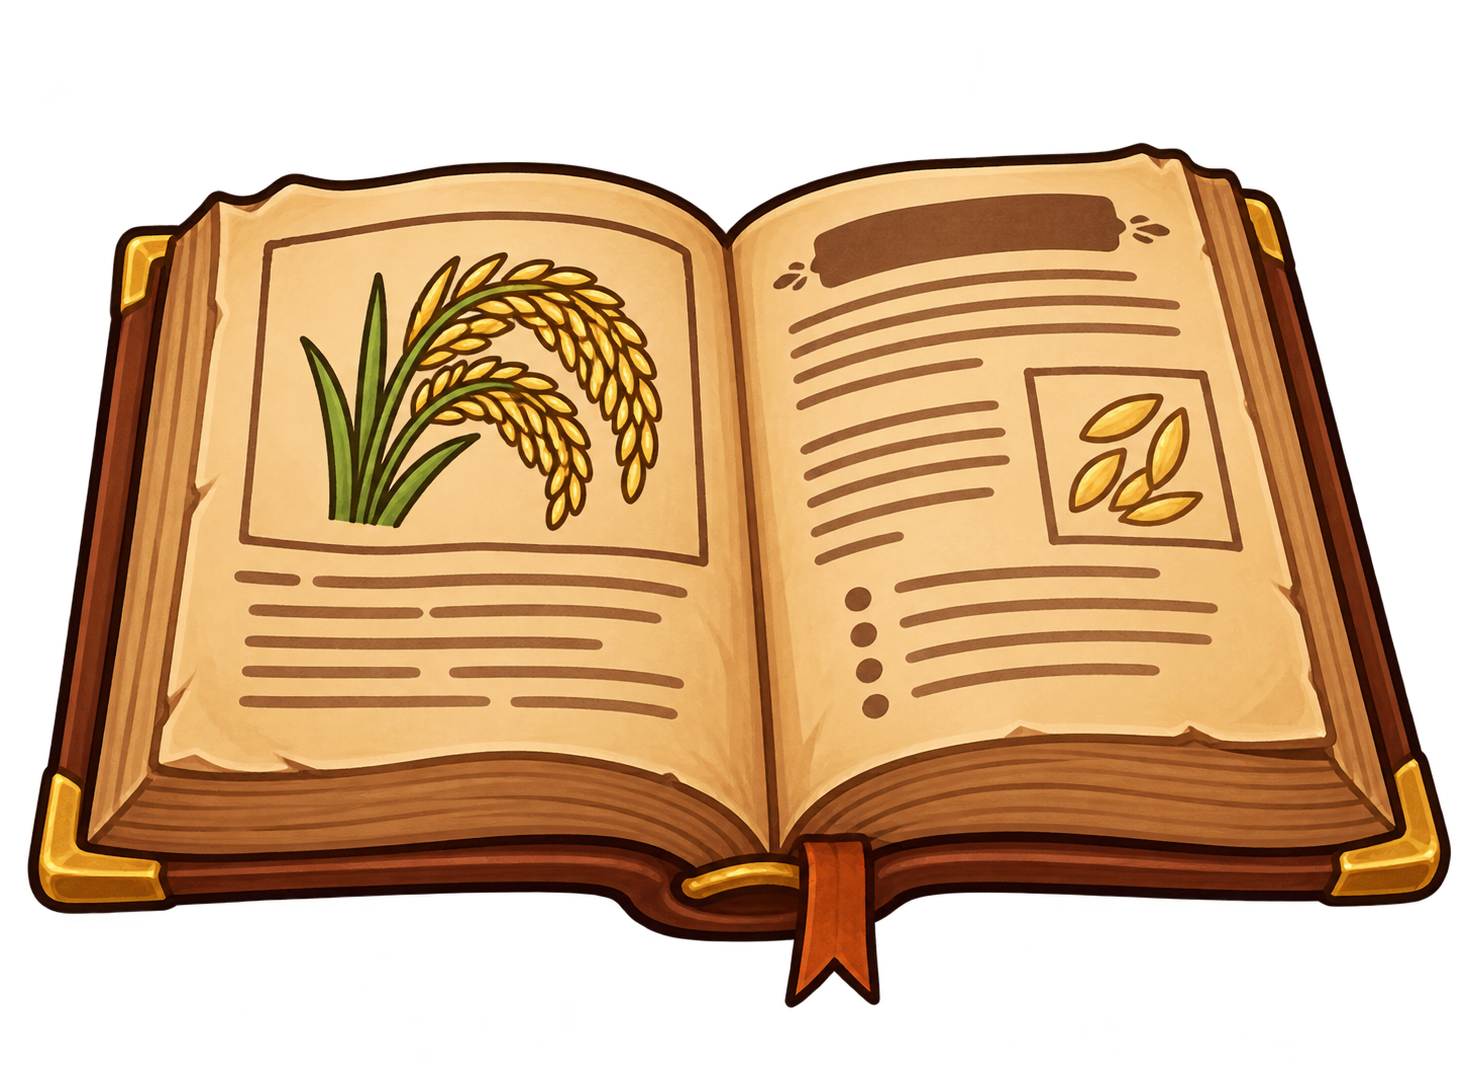
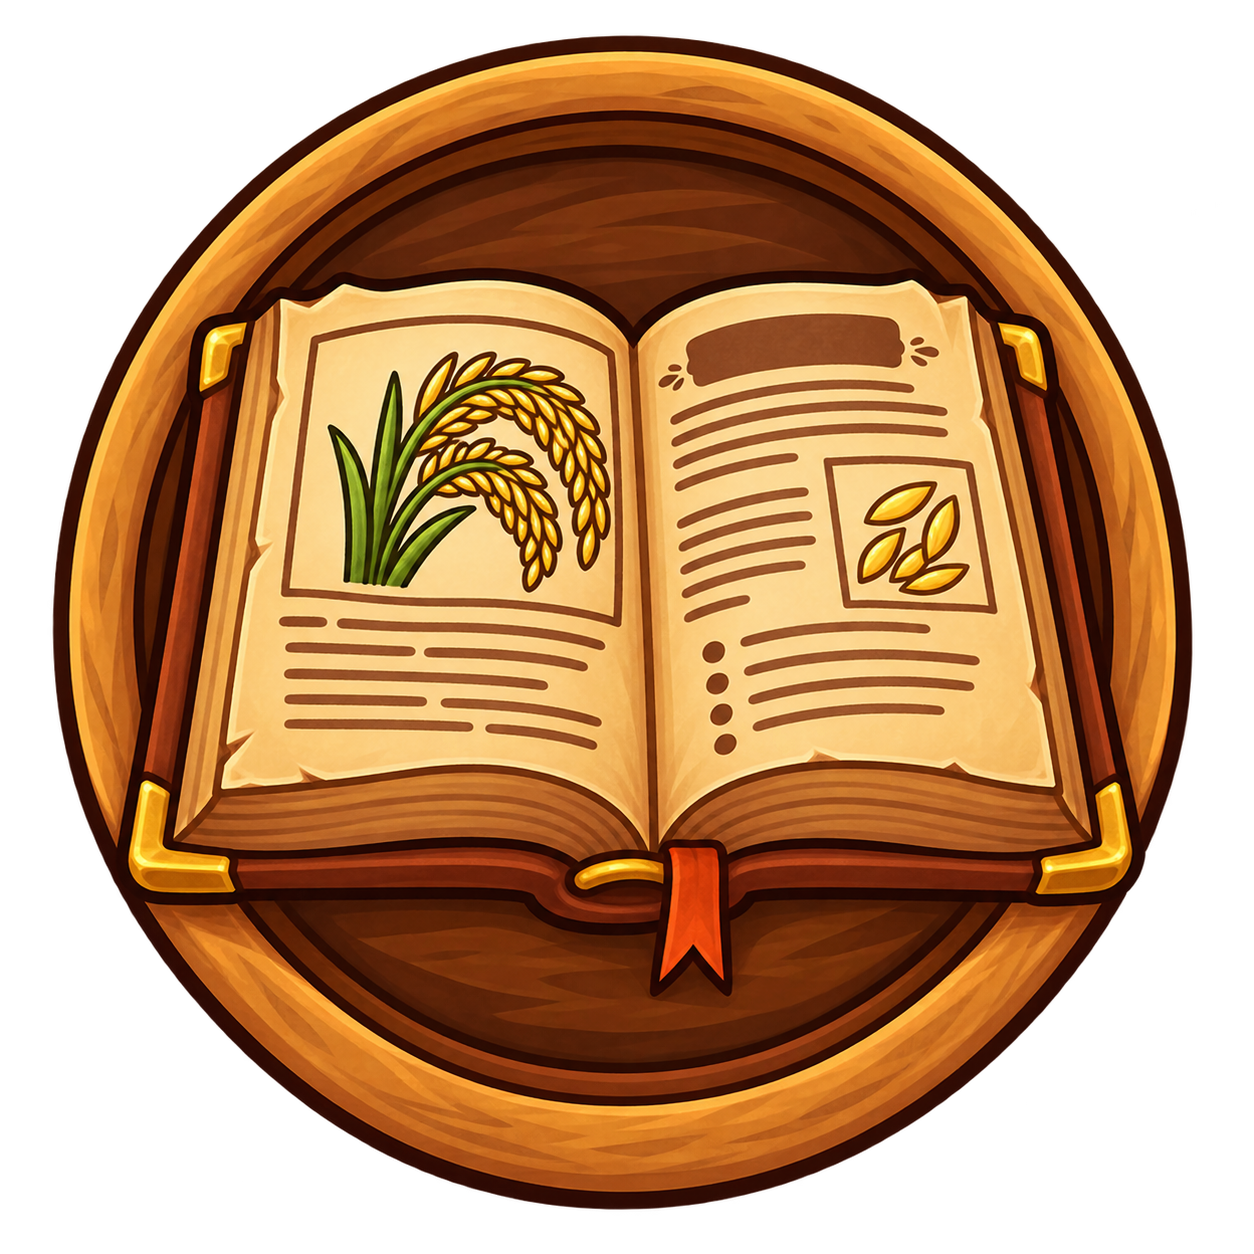
Update book and inventory button art

diff --git a/js/config/assets.js b/js/config/assets.js
@@ -120,10 +120,9 @@ export const ASSETS = [
   //
   // The book button sits in the farm sidebar, directly under the shop button
   // (`ui/almanacLauncher.js`). It replaced a rice seed packet that had stood in
-  // for it. `book.png` is 1470×1070 — landscape, unlike the square shop and settings
-  // buttons — so it letterboxes inside the 64×64 `.sidebar-btn__img` box
-  // (`css/sidebar.css`, `object-fit: contain`).
-  { path: 'assets/images/book/book.png', name: 'Book (button to open the almanac)', size: 1675851, dimensions: '1470x1070', status: 'done', category: 'button-art', page: 'field' },
+  // for it. The art is square, 1254×1254 like the shop and settings buttons, so it
+  // fills the 64×64 `.sidebar-btn__img` box (`css/sidebar.css`) with no letterboxing.
+  { path: 'assets/images/book/book.png', name: 'Book (button to open the almanac)', size: 1704265, dimensions: '1254x1254', status: 'done', category: 'button-art', page: 'field' },
   // One illustration per crop, for the almanac's entries. `almanac.html` is still
   // an empty placeholder (ISS-019), so nothing loads these yet — they are registered
   // because this file is the record of what is on disk, and `tests/assets.test.js`
@@ -140,7 +139,7 @@ export const ASSETS = [
   // A crate of harvested crops. It is the button on the farm sidebar, under the
   // almanac button (`ui/inventoryLauncher.js`), which opens the seed-bag page
   // (`inventory.html`).
-  { path: 'assets/images/inventory/inventory.png', name: 'Inventory crate (button to open the seed bag)', size: 1865103, dimensions: '1254x1254', status: 'done', category: 'button-art', page: 'field' },
+  { path: 'assets/images/inventory/inventory.png', name: 'Inventory crate (button to open the seed bag)', size: 2004167, dimensions: '1254x1254', status: 'done', category: 'button-art', page: 'field' },
 
   // --- Seasons (the season card's illustration) ---
   //
@@ -215,7 +214,7 @@ export const TITLE_IMG = 'assets/images/title.png';
 /** The settings gear, used as the button that opens settings. 1254×1254. */
 export const SETTINGS_IMG = 'assets/images/settings/settings.png';
 
-/** The book, used as the button under the shop button that opens the almanac. 1470×1070. */
+/** The book, used as the button under the shop button that opens the almanac. 1254×1254. */
 export const BOOK_IMG = 'assets/images/book/book.png';
 
 /** The crate, used as the button under the almanac button that opens the seed bag. 1254×1254. */

diff --git a/docs/asset-checklist.md b/docs/asset-checklist.md
@@ -231,7 +231,7 @@ crop illustrations are the almanac's per-crop entries, loaded by `ui/almanacCard
 
 | File | What it is | Status |
 | :--- | :--- | :--- |
-| `book.png` | The book button, 1470×1070 — **landscape**, unlike the square shop/settings buttons | ✅ done |
+| `book.png` | The book button, 1254×1254 — square, like the shop/settings buttons | ✅ done |
 | `rice.png` | Rice almanac entry, 1254×1254 | ✅ done |
 | `wheat.png` | Wheat almanac entry, 1254×1254 | ✅ done |
 | `potato.png` | Potato almanac entry, 1254×1254 | ✅ done |
@@ -239,9 +239,9 @@ crop illustrations are the almanac's per-crop entries, loaded by `ui/almanacCard
 | `corn.png` | Corn almanac entry, 1254×1254 | ✅ done |
 | `Golden Rice Harvest Bundle.png` | Golden Rice Harvest Bundle, 1312×1199 | ✅ done |
 
-**`book.png` is landscape and the button box is square.** `.sidebar-btn__img` is 64×64 with
-`object-fit: contain`, so the book letterboxes and renders smaller than the shop gear. Crop it to
-square, or give the button a wider box, before calling the button finished.
+**`book.png` is square and the button box is square.** `.sidebar-btn__img` is 64×64 with
+`object-fit: contain`, so the drawing fills the slot. The first cut was landscape (1470×1070)
+and letterboxed to a smaller size than the shop gear; the current art replaces it.
 
 ---
 

diff --git a/docs/team/progress-log.md b/docs/team/progress-log.md
@@ -8,6 +8,18 @@ The per-person weekly notes that used to live in the README table are now in `me
 ---
 
 
+## Square book and inventory button art — 2026-10-20
+
+- **Did:** both sidebar buttons got redrawn art — `book.png` and `inventory.png` are now both
+  1254×1254, matching the square shop and settings buttons. The previous book drawing was
+  1470×1070 and letterboxed to a smaller size inside the 64×64 `.sidebar-btn__img` slot; that
+  mismatch is gone.
+- **Touched:** `assets/images/book/book.png`, `assets/images/inventory/inventory.png`,
+  `js/config/assets.js` (sizes and the book dimensions/comment), `docs/asset-checklist.md`,
+  `docs/team/progress-log.md`.
+- **Verified:** `npm test` and `npm run check` pass; PNG headers read back 1254×1254.
+- **Next:** commit and push after approval.
+
 ## Navbar avatar, fourth preset and ring — 2026-10-20
 
 - **Did:** the farm navbar's profile tile now shows the selected preset instead of the generic
